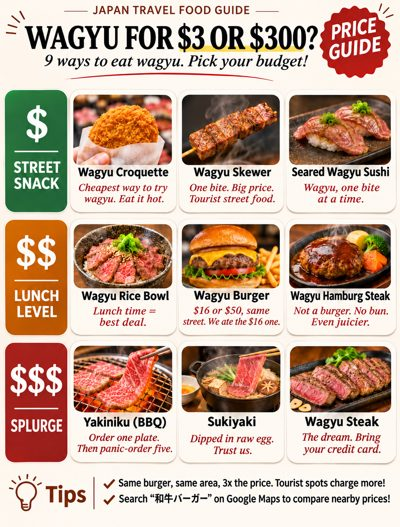
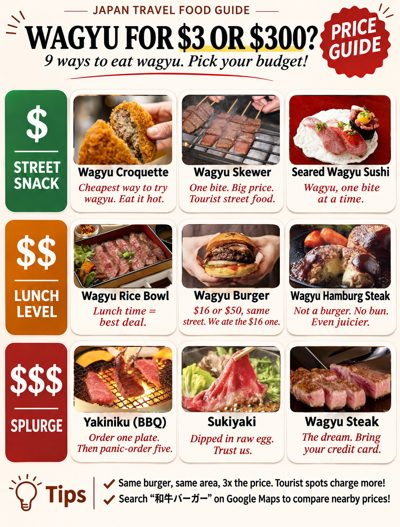
Wagyu sheet: real photos
Claude-Session: https://claude.ai/code/session_018hmGayQ3Ar1qz36jLk7p8f

Changed region(s): [[0.18, 0.6376, 0.99, 0.7894], [0.18, 0.1822, 0.99, 0.334], [0.18, 0.425, 0.99, 0.5465]]

diff --git a/sw.js b/sw.js
@@ -1,5 +1,5 @@
 /* Offline support: change VERSION whenever the app is updated */
-const VERSION = "pocket-guide-2026-11-13c";
+const VERSION = "pocket-guide-2026-11-13d";
 const SHELL = ["./", "./index.html", "./manifest.webmanifest", "./icon-192.png", "./icon-512.png", "./apple-touch-icon.png"];
 self.addEventListener("install", e => {
   e.waitUntil(caches.open(VERSION).then(c => c.addAll(SHELL)).then(() => self.skipWaiting()));
